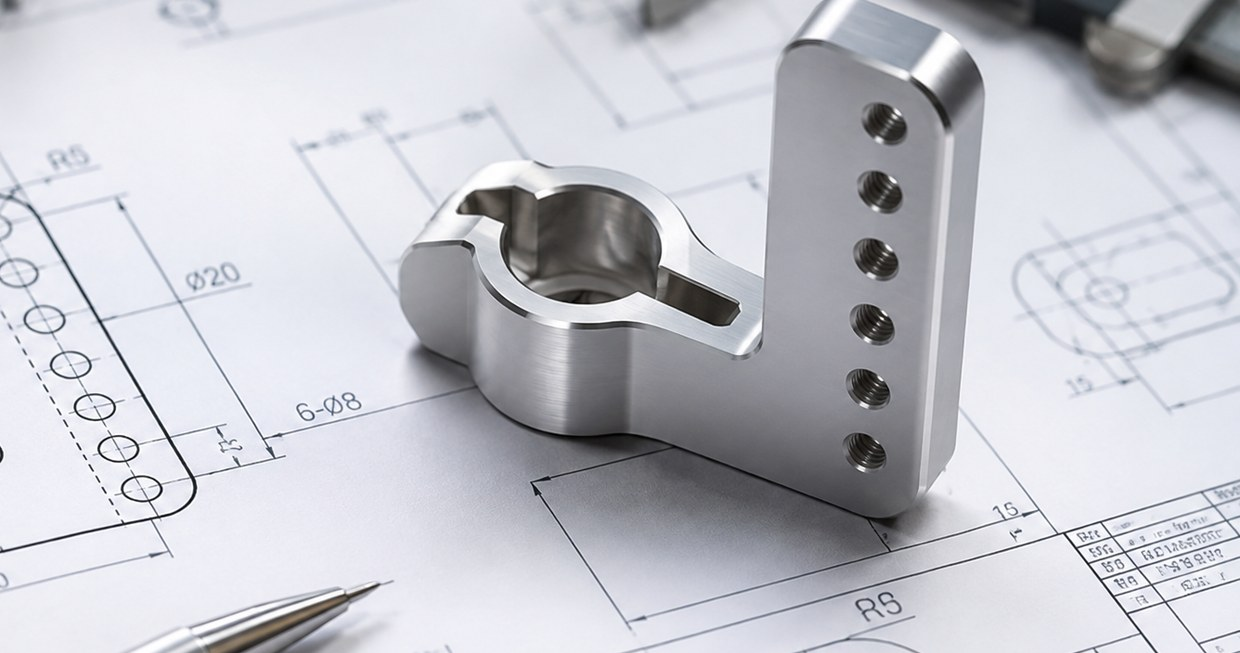
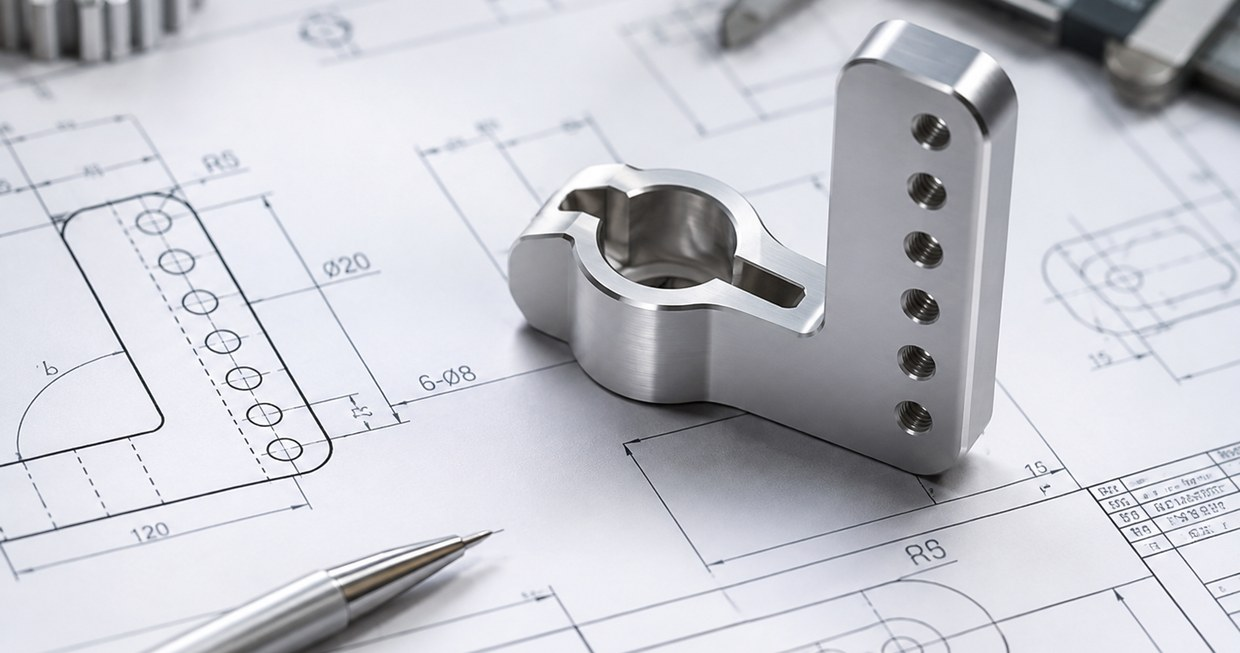
카드 04 이미지 부품이 잘리지 않게
Claude-Session: https://claude.ai/code/session_01M1b62wYPapP5RB8WQrccVh

diff --git a/app/Views/site/pages/corporate.php b/app/Views/site/pages/corporate.php
@@ -121,7 +121,7 @@
       <div class="dt-card dt-card--ph"><div class="dt-card__ph"><img src="assets/corp-find-product2.jpg" alt="네이버에서 스테인리스 배관 부품 제조를 검색하면 맨 위에 나오는 회사 홈페이지" width="1240" height="653" loading="lazy"></div><span class="n">01</span><span class="lab">제품</span><p class="q">스테인리스 배관 부품 제조</p><p>제품별 상세 화면과 규격 정보</p></div>
       <div class="dt-card dt-card--ph"><div class="dt-card__ph"><img src="assets/corp-find-tech3.jpg" alt="CNC 장비로 스테인리스 부품을 정밀가공하는 모습" width="1536" height="809" loading="lazy"></div><span class="n">02</span><span class="lab">기술</span><p class="q">정밀 가공 가능한 업체</p><p>보유 설비 · 기술 소개 화면</p></div>
       <div class="dt-card dt-card--ph"><div class="dt-card__ph"><img src="assets/corp-find-region2.jpg?v=2" alt="지도 검색에서 회사 위치와 영업 정보가 보이는 화면" width="1240" height="653" loading="lazy"></div><span class="n">03</span><span class="lab">지역</span><p class="q">경기도 금형 업체</p><p>회사 위치와 서비스 지역 표시</p></div>
-      <div class="dt-card dt-card--ph"><div class="dt-card__ph"><img src="assets/corp-find-oem2.jpg" alt="도면 위에 놓인 정밀 가공 부품" width="1240" height="653" loading="lazy"></div><span class="n">04</span><span class="lab">공정</span><p class="q">OEM 생산 문의</p><p>생산 절차와 문의 방법 안내</p></div>
+      <div class="dt-card dt-card--ph"><div class="dt-card__ph"><img src="assets/corp-find-oem2.jpg?v=2" alt="도면 위에 놓인 정밀 가공 부품" width="1240" height="653" loading="lazy"></div><span class="n">04</span><span class="lab">공정</span><p class="q">OEM 생산 문의</p><p>생산 절차와 문의 방법 안내</p></div>
     </div>
   </div>
 </section>
